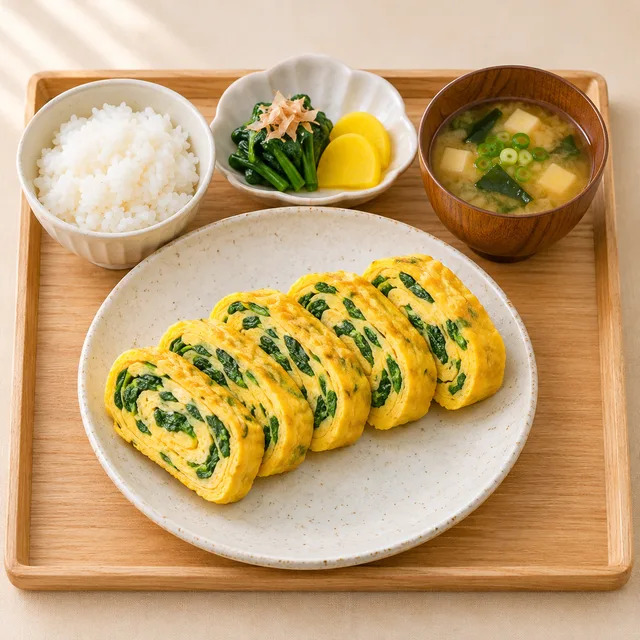
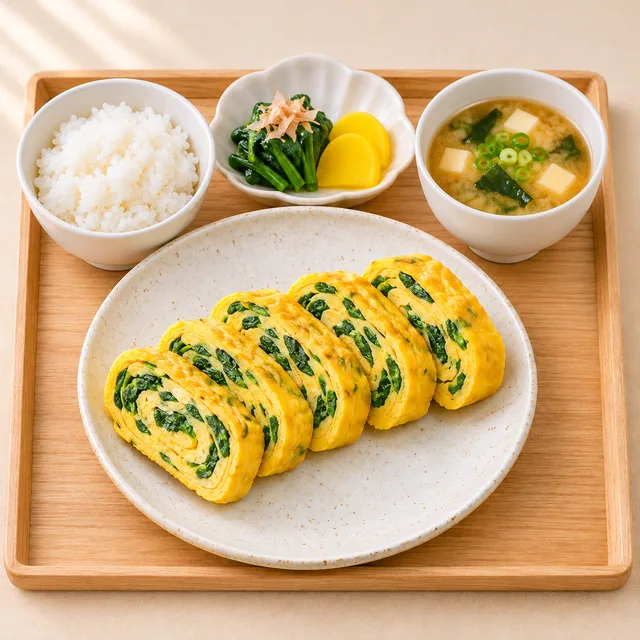
ごはん計画: 作り直した4品の料理写真に差し替え
- 鶏肉とカシューナッツ炒め（玉ねぎを除去）、ほうれん草入り卵焼き・豆腐入り鶏ハンバーグ（白い汁椀）、豚肉のピカタ（断面を表示）を差し替え
- 画像台帳を更新し、以前の記録を previousVersions に保存
- プレビューと画像ガイドから作り直し推奨の表示を削除

Claude-Session: https://claude.ai/code/session_01Hjiv5DhMjBoH4NrjFZe7Cw

diff --git a/docs/meal-planner/IMAGE_PREVIEW.md b/docs/meal-planner/IMAGE_PREVIEW.md
@@ -1,6 +1,6 @@
 # 料理写真プレビュー（全60品）
 
-副菜を添えてお盆に載せた定食風の、AI生成の盛り付けイメージです（2026-11-14 取り込み）。副菜は飾りで、レシピ・買い物リスト・栄養値には含みません。画像を選択すると640px版を確認できます。制作・権利の記録は [IMAGE_GUIDE.md](IMAGE_GUIDE.md) と [画像台帳](data/image-manifest.json) を参照してください。「※作り直し推奨」の理由は画像台帳の `review.note` にあります。
+副菜を添えてお盆に載せた定食風の、AI生成の盛り付けイメージです（2026-11-14 取り込み）。副菜は飾りで、レシピ・買い物リスト・栄養値には含みません。画像を選択すると640px版を確認できます。制作・権利の記録は [IMAGE_GUIDE.md](IMAGE_GUIDE.md) と [画像台帳](data/image-manifest.json) を参照してください。作り直した4品（2026-11-14、v2）の以前の記録は画像台帳の `previousVersions` にあります。
 
 | 料理 | 料理 | 料理 | 料理 |
 | --- | --- | --- | --- |
@@ -9,12 +9,12 @@
 | [![親子丼](assets/images/oyako-320.webp)](assets/images/oyako.webp)<br>親子丼 | [![青椒肉絲](assets/images/pepper-320.webp)](assets/images/pepper.webp)<br>青椒肉絲 | [![トマトと卵の中華炒め](assets/images/tomato-320.webp)](assets/images/tomato.webp)<br>トマトと卵の中華炒め | [![鶏と野菜のポトフ](assets/images/stew-320.webp)](assets/images/stew.webp)<br>鶏と野菜のポトフ |
 | [![さばの味噌煮](assets/images/saba_miso-320.webp)](assets/images/saba_miso.webp)<br>さばの味噌煮 | [![ぶりの照り焼き](assets/images/buri-320.webp)](assets/images/buri.webp)<br>ぶりの照り焼き | [![肉じゃが](assets/images/nikujaga-320.webp)](assets/images/nikujaga.webp)<br>肉じゃが | [![具だくさん豚汁](assets/images/tonjiru-320.webp)](assets/images/tonjiru.webp)<br>具だくさん豚汁 |
 | [![鶏そぼろ丼](assets/images/soboro-320.webp)](assets/images/soboro.webp)<br>鶏そぼろ丼 | [![鶏むね肉の生姜焼き](assets/images/shogayaki_chicken-320.webp)](assets/images/shogayaki_chicken.webp)<br>鶏むね肉の生姜焼き | [![豆腐ステーキきのこあん](assets/images/tofu_steak-320.webp)](assets/images/tofu_steak.webp)<br>豆腐ステーキきのこあん | [![牛肉と豆腐のすき煮](assets/images/sukiyaki-320.webp)](assets/images/sukiyaki.webp)<br>牛肉と豆腐のすき煮 |
-| [![ほうれん草入り卵焼き](assets/images/tamagoyaki-320.webp)](assets/images/tamagoyaki.webp)<br>ほうれん草入り卵焼き ※作り直し推奨 | [![筑前煮](assets/images/chikuzen-320.webp)](assets/images/chikuzen.webp)<br>筑前煮 | [![さばの塩焼き](assets/images/saba_shio-320.webp)](assets/images/saba_shio.webp)<br>さばの塩焼き | [![鶏ときのこの温うどん](assets/images/udon-320.webp)](assets/images/udon.webp)<br>鶏ときのこの温うどん |
-| [![かつおのたたき香味だれ](assets/images/katsuo-320.webp)](assets/images/katsuo.webp)<br>かつおのたたき香味だれ | [![白菜と豚肉の重ね蒸し](assets/images/nabe-320.webp)](assets/images/nabe.webp)<br>白菜と豚肉の重ね蒸し | [![豆腐入り鶏ハンバーグ](assets/images/tofu_hamburg-320.webp)](assets/images/tofu_hamburg.webp)<br>豆腐入り鶏ハンバーグ ※作り直し推奨 | [![ツナとトマトのパスタ](assets/images/tuna_pasta-320.webp)](assets/images/tuna_pasta.webp)<br>ツナとトマトのパスタ |
+| [![ほうれん草入り卵焼き](assets/images/tamagoyaki-320.webp)](assets/images/tamagoyaki.webp)<br>ほうれん草入り卵焼き | [![筑前煮](assets/images/chikuzen-320.webp)](assets/images/chikuzen.webp)<br>筑前煮 | [![さばの塩焼き](assets/images/saba_shio-320.webp)](assets/images/saba_shio.webp)<br>さばの塩焼き | [![鶏ときのこの温うどん](assets/images/udon-320.webp)](assets/images/udon.webp)<br>鶏ときのこの温うどん |
+| [![かつおのたたき香味だれ](assets/images/katsuo-320.webp)](assets/images/katsuo.webp)<br>かつおのたたき香味だれ | [![白菜と豚肉の重ね蒸し](assets/images/nabe-320.webp)](assets/images/nabe.webp)<br>白菜と豚肉の重ね蒸し | [![豆腐入り鶏ハンバーグ](assets/images/tofu_hamburg-320.webp)](assets/images/tofu_hamburg.webp)<br>豆腐入り鶏ハンバーグ | [![ツナとトマトのパスタ](assets/images/tuna_pasta-320.webp)](assets/images/tuna_pasta.webp)<br>ツナとトマトのパスタ |
 | [![ミートソーススパゲティ](assets/images/bolognese-320.webp)](assets/images/bolognese.webp)<br>ミートソーススパゲティ | [![カルボナーラ](assets/images/carbonara-320.webp)](assets/images/carbonara.webp)<br>カルボナーラ | [![きのこのチーズオムレツ](assets/images/omelet-320.webp)](assets/images/omelet.webp)<br>きのこのチーズオムレツ | [![鶏肉のトマト煮](assets/images/chicken_tomato-320.webp)](assets/images/chicken_tomato.webp)<br>鶏肉のトマト煮 |
 | [![鶏とブロッコリーのグラタン](assets/images/gratin-320.webp)](assets/images/gratin.webp)<br>鶏とブロッコリーのグラタン | [![鮭のムニエル](assets/images/salmon_muniere-320.webp)](assets/images/salmon_muniere.webp)<br>鮭のムニエル | [![鶏むね肉と豆のスープ](assets/images/chicken_soup-320.webp)](assets/images/chicken_soup.webp)<br>鶏むね肉と豆のスープ | [![キーマカレー](assets/images/keema-320.webp)](assets/images/keema.webp)<br>キーマカレー |
-| [![チキンのハーブ焼き](assets/images/chicken_herb-320.webp)](assets/images/chicken_herb.webp)<br>チキンのハーブ焼き | [![きのことチーズのリゾット](assets/images/risotto-320.webp)](assets/images/risotto.webp)<br>きのことチーズのリゾット | [![豚肉のピカタ](assets/images/pork_piccata-320.webp)](assets/images/pork_piccata.webp)<br>豚肉のピカタ ※作り直し推奨 | [![えびのガーリックソテー](assets/images/shrimp_garlic-320.webp)](assets/images/shrimp_garlic.webp)<br>えびのガーリックソテー |
-| [![トマトと卵の煮込み](assets/images/shakshuka-320.webp)](assets/images/shakshuka.webp)<br>トマトと卵の煮込み | [![麻婆なす](assets/images/mapo_nasu-320.webp)](assets/images/mapo_nasu.webp)<br>麻婆なす | [![エビチリ](assets/images/ebichili-320.webp)](assets/images/ebichili.webp)<br>エビチリ | [![鶏肉とカシューナッツ炒め](assets/images/chicken_cashew-320.webp)](assets/images/chicken_cashew.webp)<br>鶏肉とカシューナッツ炒め ※作り直し推奨 |
+| [![チキンのハーブ焼き](assets/images/chicken_herb-320.webp)](assets/images/chicken_herb.webp)<br>チキンのハーブ焼き | [![きのことチーズのリゾット](assets/images/risotto-320.webp)](assets/images/risotto.webp)<br>きのことチーズのリゾット | [![豚肉のピカタ](assets/images/pork_piccata-320.webp)](assets/images/pork_piccata.webp)<br>豚肉のピカタ | [![えびのガーリックソテー](assets/images/shrimp_garlic-320.webp)](assets/images/shrimp_garlic.webp)<br>えびのガーリックソテー |
+| [![トマトと卵の煮込み](assets/images/shakshuka-320.webp)](assets/images/shakshuka.webp)<br>トマトと卵の煮込み | [![麻婆なす](assets/images/mapo_nasu-320.webp)](assets/images/mapo_nasu.webp)<br>麻婆なす | [![エビチリ](assets/images/ebichili-320.webp)](assets/images/ebichili.webp)<br>エビチリ | [![鶏肉とカシューナッツ炒め](assets/images/chicken_cashew-320.webp)](assets/images/chicken_cashew.webp)<br>鶏肉とカシューナッツ炒め |
 | [![回鍋肉](assets/images/hoikoro-320.webp)](assets/images/hoikoro.webp)<br>回鍋肉 | [![棒棒鶏](assets/images/banbanji-320.webp)](assets/images/banbanji.webp)<br>棒棒鶏 | [![焼き餃子](assets/images/gyoza-320.webp)](assets/images/gyoza.webp)<br>焼き餃子 | [![えびと卵のチャーハン](assets/images/chahan-320.webp)](assets/images/chahan.webp)<br>えびと卵のチャーハン |
 | [![豆乳担々麺](assets/images/tantan-320.webp)](assets/images/tantan.webp)<br>豆乳担々麺 | [![鶏と春雨の中華スープ](assets/images/harusame-320.webp)](assets/images/harusame.webp)<br>鶏と春雨の中華スープ | [![牛肉の黒胡椒炒め](assets/images/blackpepper-320.webp)](assets/images/blackpepper.webp)<br>牛肉の黒胡椒炒め | [![鶏肉のレモン炒め](assets/images/chicken_lemon-320.webp)](assets/images/chicken_lemon.webp)<br>鶏肉のレモン炒め |
 | [![麻婆春雨](assets/images/mapo_harusame-320.webp)](assets/images/mapo_harusame.webp)<br>麻婆春雨 | [![にんにく香る豚ニラ炒め](assets/images/garlic_pork-320.webp)](assets/images/garlic_pork.webp)<br>にんにく香る豚ニラ炒め | [![簡単シュウマイ](assets/images/shumai-320.webp)](assets/images/shumai.webp)<br>簡単シュウマイ | [![よだれ鶏](assets/images/spicy_chicken-320.webp)](assets/images/spicy_chicken.webp)<br>よだれ鶏 |

diff --git a/docs/meal-planner/IMAGE_GUIDE.md b/docs/meal-planner/IMAGE_GUIDE.md
@@ -1,4 +1,4 @@
-> **2026-11-14 更新**: 全60品を、副菜を添えてお盆に載せた定食風の写真（ChatGPTの画像生成で新規作成）に切り替えました。制作の指示文と手順は [docs/IMAGE_HANDOFF_CHATGPT.md](docs/IMAGE_HANDOFF_CHATGPT.md)、生成条件・元画像の識別情報・確認結果は `data/image-manifest.json`（schemaVersion 2）に記録しています。以前の白い皿1枚の写真20品は `retired` に記録し、ファイルはGitの履歴に残っています。副菜は飾りで、レシピ・買い物リスト・栄養値に含みません（画面にも表示）。作り直し推奨の4品は台帳の `review.result` が `accepted-redo-suggested` です。
+> **2026-11-14 更新**: 全60品を、副菜を添えてお盆に載せた定食風の写真（ChatGPTの画像生成で新規作成）に切り替えました。制作の指示文と手順は [docs/IMAGE_HANDOFF_CHATGPT.md](docs/IMAGE_HANDOFF_CHATGPT.md)、生成条件・元画像の識別情報・確認結果は `data/image-manifest.json`（schemaVersion 2）に記録しています。以前の白い皿1枚の写真20品は `retired` に記録し、ファイルはGitの履歴に残っています。副菜は飾りで、レシピ・買い物リスト・栄養値に含みません（画面にも表示）。作り直しを推奨した4品は同日に2回目の制作（v2）で修正し、以前の記録を台帳の `previousVersions` に残しています。
 
 # 料理画像の管理・制作
 
